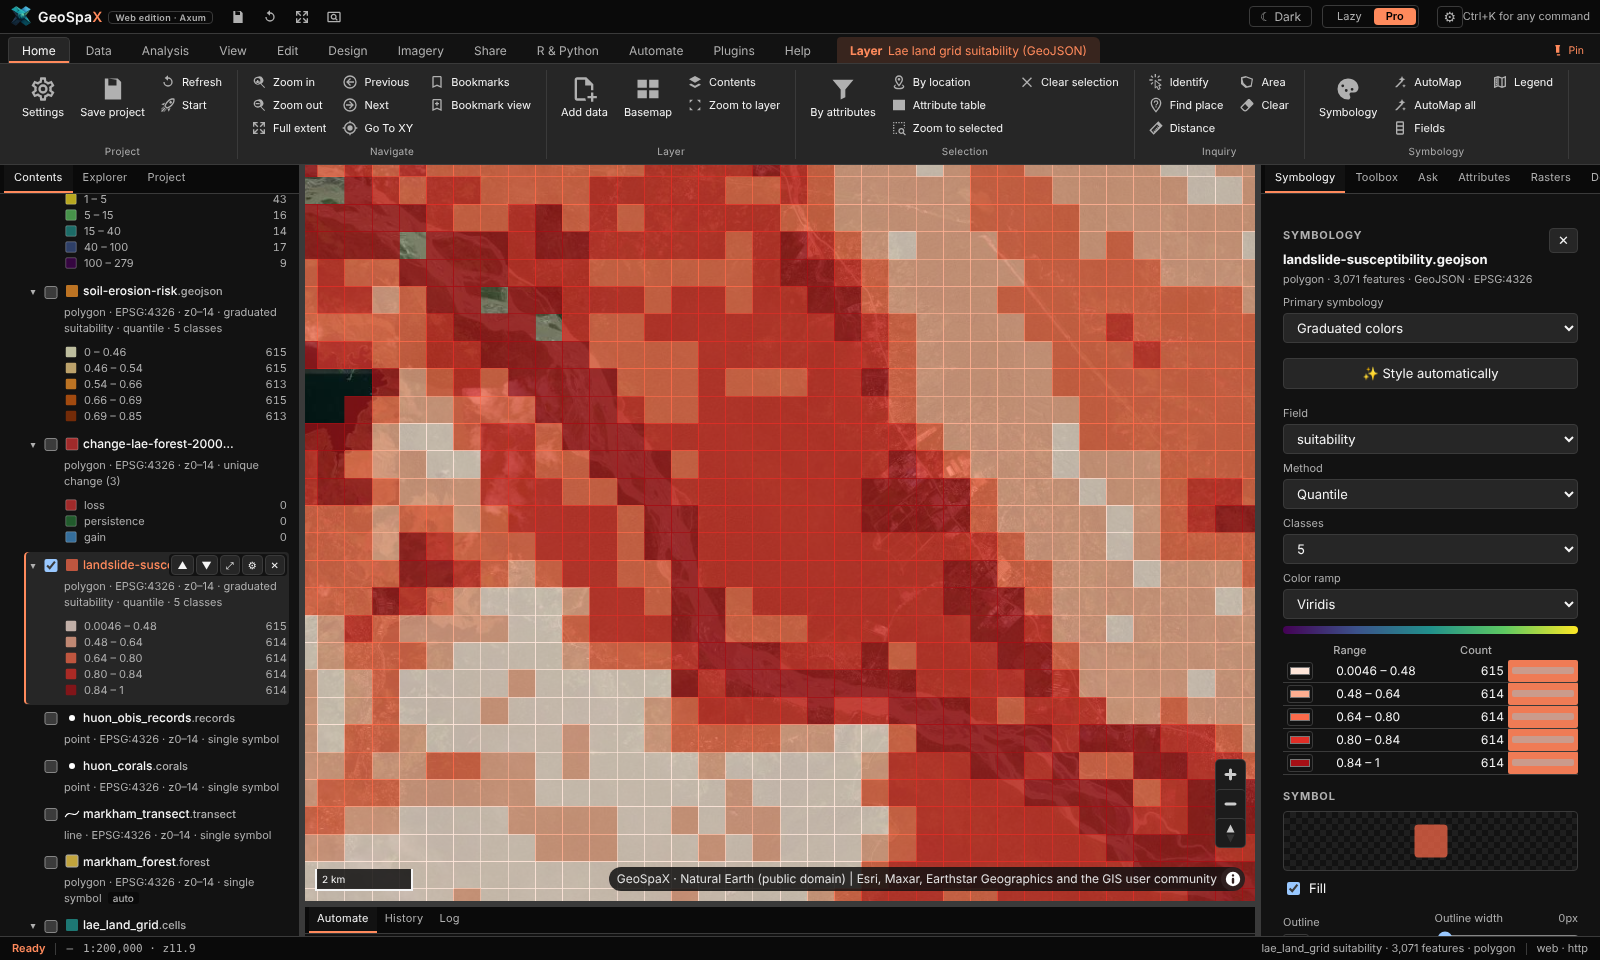
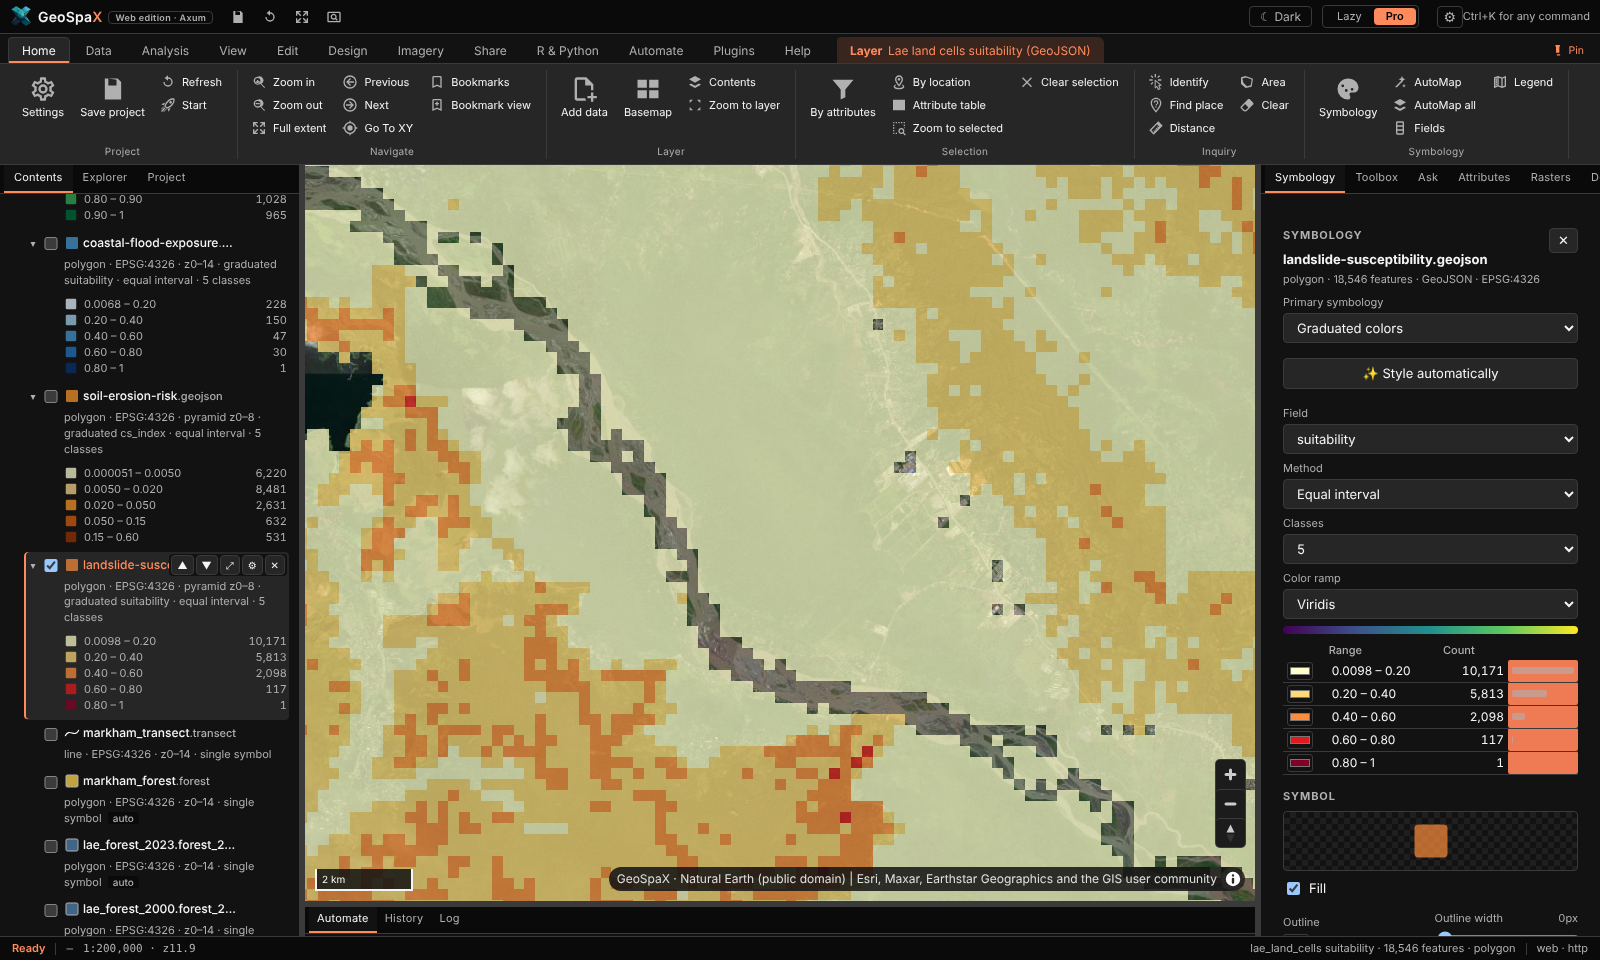
Accurate showcase maps: suitability direction fix, RUSLE-style soil index, re-shot maps (#45)
* Showcases: biodiversity and conservation from marine records only (seafloor, no birds)

* Suitability: plain criteria now score higher-is-better; no seams across see-through grids

The tool passed 'higher'/'lower' while the scorer expects 'benefit'/'cost',
so every criterion was scored as lower-is-better. Adds a regression test.

* README: showcase captions with checked figures and methods

* Showcases: re-shot maps with corrected analyses and legends

diff --git a/web/src/symbols.ts b/web/src/symbols.ts
@@ -303,7 +303,12 @@ export function symbolLayers(a: MapLayerArgs): LayerSpecification[] {
       // hatching in one colour: the layer's colour when it has one, else the outline colour
       const ink = typeof color === 'string' ? color : f.strokeColor;
       out.push({ ...base, id: `${id}#fill`, type: 'fill', paint: { 'fill-pattern': `${HATCH_PREFIX}${f.pattern}|${ink}`, 'fill-opacity': op } } as LayerSpecification);
-    } else if (f?.fill !== false) out.push({ ...base, id: `${id}#fill`, type: 'fill', paint: { 'fill-color': color, 'fill-opacity': op } } as LayerSpecification);
+    } else if (f?.fill !== false) {
+      // see-through fills without an outline: antialiased edges are drawn twice where neighbours meet,
+      // which shows as light seams across grids, so draw those edges crisp instead
+      const seams = op < 1 && !((f?.strokeWidth ?? 0) > 0);
+      out.push({ ...base, id: `${id}#fill`, type: 'fill', paint: { 'fill-color': color, 'fill-opacity': op, ...(seams ? { 'fill-antialias': false } : {}) } } as LayerSpecification);
+    }
     if (f) {
       if (f.strokeWidth > 0)
         out.push({

diff --git a/plugins/gsx/tests/legacytools.test.ts b/plugins/gsx/tests/legacytools.test.ts
@@ -116,3 +116,14 @@ describe('elevation profile', () => {
     await assert.rejects(Promise.resolve().then(() => tool('elevation-profile').run(ctx({ layer: 'l' }, { l: [line] }))), /need an elevation raster/);
   });
 });
+
+describe('weighted suitability criteria', () => {
+  it('scores a plain field:weight as higher-is-better and :- as lower-is-better', async () => {
+    const { TOOLS } = await import('../src/tools');
+    const feats = grid(2, (c, r) => c + r).map((f, i) => ({ ...f, properties: { ...f.properties, a: [0, 10, 0, 10][i], b: [0, 0, 10, 10][i] } }));
+    const out = await TOOLS.find((t) => t.id === 'suitability')!.run(ctx({ layer: 'g', criteria: 'a:1, b:1:-' }, { g: feats }));
+    const s = out.layers![0].features.map((f) => f.properties!.suitability);
+    // a high and b low is best; a low and b high is worst
+    assert.deepEqual(s, [0.5, 1, 0, 0.5]);
+  });
+});

diff --git a/plugins/gsx/src/tools.ts b/plugins/gsx/src/tools.ts
@@ -116,7 +116,7 @@ function criteria(text: string) {
     const [field, w, dir] = it.split(':').map((s) => s.trim());
     const weight = Number(w ?? 1);
     if (!field || !Number.isFinite(weight) || weight < 0) throw new Error(`Bad criterion '${it}': use field:weight or field:weight:-`);
-    return { field, weight, direction: (dir === '-' || /^lower|min|cost/i.test(dir ?? '') ? 'lower' : 'higher') as A.CriterionDirection };
+    return { field, weight, direction: (dir === '-' || /^lower|min|cost/i.test(dir ?? '') ? 'cost' : 'benefit') as A.CriterionDirection };
   });
 }
 

diff --git a/README.md b/README.md
@@ -51,9 +51,10 @@ tank and dimensions, all typed into the command line. *Export DXF* hands it to A
 
 <p align="center"><img src="docs/assets/tour-design.png" alt="GeoSpaX Design tab: a 76-lot subdivision plan over Esri World Imagery of Lae" width="900" /></p>
 
-**Rivers and catchments.** The Markham valley above Lae from the Copernicus 30 m DEM (1,547 × 1,253
-cells): GeoSpaX's `hydro.network` fills depressions, routes flow (D8), extracts 879 stream links coloured
-by Strahler order and outlines 13 drainage basins, in 1.5 seconds, over Esri World Imagery.
+**Rivers and catchments.** The Huon Peninsula coast east of Lae from the Copernicus DEM at 60 m
+(1,909 × 1,400 cells, sea masked out): GeoSpaX's `hydro.network` fills depressions, routes flow (D8),
+extracts 834 stream links coloured by Strahler order (1 to 5) and outlines the 11 drainage basins that lie
+wholly inside the DEM (basins cut by its edge are left out), over Esri World Imagery.
 
 <p align="center"><img src="docs/assets/tour-hydrology.png" alt="GeoSpaX: Strahler-ordered streams and drainage basins of the Markham valley over Esri World Imagery" width="900" /></p>
 
@@ -90,41 +91,41 @@ over 2,646 Overture road segments (service area with the network tools of the To
 Each domain plugin run in GeoSpaX on open data around Lae and the Huon Gulf, Papua New Guinea, over Esri
 World Imagery. The plugins share one tested toolkit (GSX), so a tool behaves the same in every domain.
 
-**Agriculture · weighted suitability.** Where new gardens could go: 3,071 cells of 500 m scored by gentle
-slope, open (grass, shrub, crop) land and low ground from the Copernicus 30 m DEM and ESA WorldCover 2021;
-built-up and water cells are excluded.
+**Agriculture · weighted suitability.** Where new gardens could go: land cells of about 220 m (0.002°) scored
+by gentle slope (weight 3), open grass, shrub and crop land (2) and low ground (1) from the Copernicus 30 m
+DEM and ESA WorldCover 2021. Forest is kept out, which leaves 3,187 of 18,546 cells to score.
 
 <p align="center"><img src="docs/assets/plugin-agriculture.png" alt="GeoSpaX Agriculture plugin: cropland suitability around Lae from slope, open land and elevation" width="900" /></p>
 
-**Biodiversity · richness and diversity.** 4,842 OBIS marine records of the Huon Gulf summarised per
-0.1° cell: species richness (up to 279 taxa in one cell), Shannon, Simpson and evenness for the 99 cells
-with records.
+**Biodiversity · richness and diversity.** OBIS records of the Huon Gulf, kept to those on the seafloor
+(GEBCO depth below 0 m, birds left out: 3,536 of 4,842), summarised per 0.1° cell: 987 taxa in all,
+species richness up to 133 in one cell, and Shannon, Simpson and evenness for the 49 cells with records.
 
 <p align="center"><img src="docs/assets/plugin-biodiversity.png" alt="GeoSpaX Biodiversity plugin: species richness of OBIS records per cell in the Huon Gulf" width="900" /></p>
 
-**Climate · coastal flood exposure.** Lae's low-lying coast scored by elevation, built-up land and
-wetland (weighted linear combination); ground above 30 m is excluded.
+**Climate · coastal flood exposure.** The 462 cells of Lae's low-elevation coastal zone (10 m and
+below) scored by low ground (weight 3) and built-up land (2): exposure is highest on the waterfront and port.
 
 <p align="center"><img src="docs/assets/plugin-climate.png" alt="GeoSpaX Climate plugin: coastal flood exposure of Lae's low-lying coast" width="900" /></p>
 
-**Conservation · weighted hotspot grid.** The same OBIS records counted on 10 km hexagons: 67 of 203
-hexagons hold records, with the densest sampling along the Lae coast and the Huon Peninsula.
+**Conservation · weighted hotspot grid.** The same marine records counted on 10 km hexagons: 35 of 176
+hold records, densest off Lae and along the Huon Peninsula coast.
 
 <p align="center"><img src="docs/assets/plugin-conservation.png" alt="GeoSpaX Conservation plugin: 10 km hexagon hotspot grid of OBIS records" width="900" /></p>
 
-**Disaster · landslide susceptibility.** Slope, local relief and tree cover combined into a 0–1 score on
-the 500 m grid of the Markham valley edge.
+**Disaster · landslide susceptibility.** Slope (weight 4), local relief (2) and little tree cover (1)
+combined into a 0–1 score on the same land cells along the Markham valley; built-up and water cells score 0.
 
 <p align="center"><img src="docs/assets/plugin-disaster.png" alt="GeoSpaX Disaster plugin: landslide susceptibility from slope, relief and tree cover" width="900" /></p>
 
-**Environment · elevation profile.** A 39 km transect from the Saruwaged foothills to the Huon Gulf,
-sampled every 44 m on the Copernicus DEM: from 20 m to 1,173 m.
+**Environment · elevation profile.** A 38.9 km transect from the Saruwaged foothills to the Huon Gulf on
+the Copernicus 30 m DEM (882 samples, about 44 m apart): from 20 m to 1,175 m, with 2,833 m of climb.
 
 <p align="center"><img src="docs/assets/plugin-environment.png" alt="GeoSpaX Environment plugin: elevation profile along a transect to the Huon Gulf" width="900" /></p>
 
-**Forestry · fragmentation and connectivity.** 85 forest patches from Hansen tree cover (≥ 50 %):
-FRAGSTATS-style metrics, 30,119 ha of core forest more than 100 m from an edge, and 42 groups of patches
-joined by 52 links within a 1 km dispersal distance.
+**Forestry · fragmentation and connectivity.** 136 forest patches of 1 ha or more from Hansen tree cover
+(2000 canopy ≥ 50 %, 40,783 ha): FRAGSTATS-style metrics, 28,797 ha of core forest more than 100 m from an
+edge, and 33 links joining patches within a 500 m dispersal distance (105 connected groups).
 
 <p align="center"><img src="docs/assets/plugin-forestry.png" alt="GeoSpaX Forestry plugin: forest patches, core areas and 1 km connectivity links" width="900" /></p>
 
@@ -137,17 +138,19 @@ joined by 52 links within a 1 km dispersal distance.
 (see the Rivers and catchments tour above).
 
 **Land use and land cover · two-date change.** Forest of 2000 against forest left in 2023 (Hansen Global
-Forest Change) east of Lae: 3,689 ha lost, 43,907 ha unchanged.
+Forest Change) east of Lae: 3,800 ha lost, 43,831 ha unchanged, no gain (patches of 1 ha or more).
 
 <p align="center"><img src="docs/assets/plugin-lulc.png" alt="GeoSpaX Land use and land cover plugin: forest loss and persistence from 2000 to 2023" width="900" /></p>
 
-**Marine · DBSCAN clusters.** 631 OBIS fish records grouped into 15 clusters (5 km radius, 12 points of
-noise) over GEBCO 2026 bathymetry of the Huon Gulf.
+**Marine · DBSCAN clusters.** 409 OBIS fish records from the sea grouped into 9 clusters (5 km radius,
+9 records of noise) over GEBCO 2026 bathymetry of the Huon Gulf (shown from 0 to 3,000 m deep).
 
 <p align="center"><img src="docs/assets/plugin-marine.png" alt="GeoSpaX Marine plugin: clusters of fish records over GEBCO bathymetry of the Huon Gulf" width="900" /></p>
 
-**Soil · erosion risk.** Steep, exposed (crop, bare, grass) land with little tree cover scores highest;
-built-up and water cells are excluded.
+**Soil · erosion potential.** A RUSLE-style index on the land cells: the slope-steepness factor S
+(McCool) times the cover-management factor C from the WorldCover shares (forest 0.003, shrub and grass 0.05,
+crop 0.20, bare 0.35). Rainfall and soil erodibility are taken as even over this small area, so the index
+ranks cells rather than giving tonnes; built-up and water cells are left out.
 
 <p align="center"><img src="docs/assets/plugin-soil.png" alt="GeoSpaX Soil plugin: erosion risk from slope, exposed land and tree cover" width="900" /></p>
 
